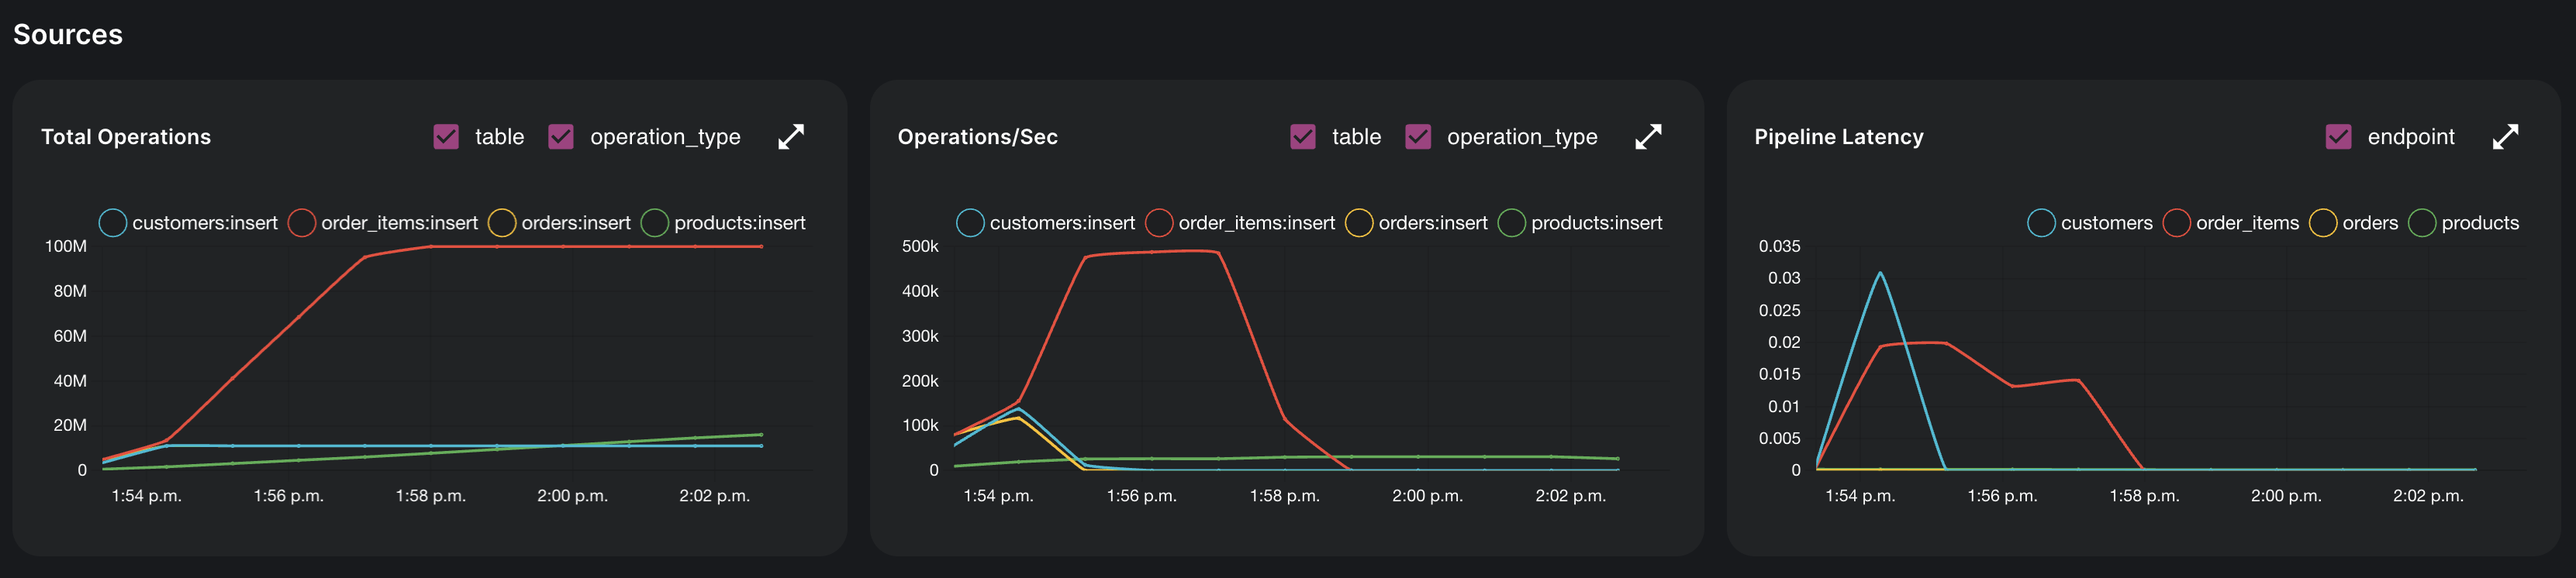
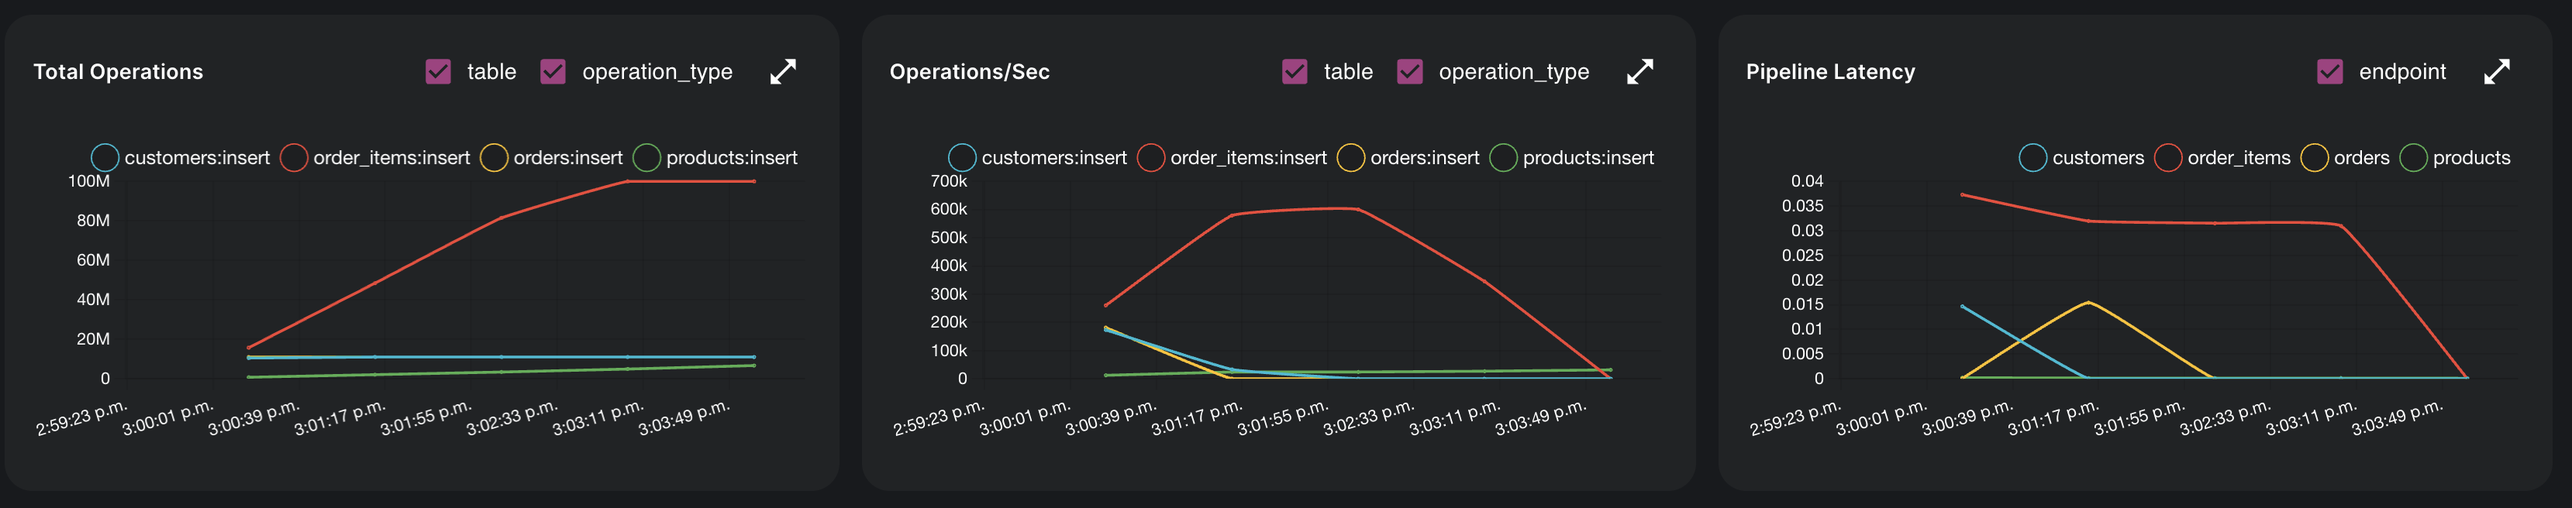
chore: fix readme

diff --git a/usecases/scaling-ecommerce/README.md b/usecases/scaling-ecommerce/README.md
@@ -1,6 +1,18 @@
-# Scaling E-Commerce
+## Scaling E-Commerce
 
-In this example we demonstrate Dozer's capability of processing large volume of data.
+In this example we demonstrate Dozer's capability of processing large volume of data. This is mainly focused on processing performance. API performance will be published separately. 
+
+## Table of Contents
+- [Scaling E-Commerce](#scaling-e-commerce)
+- [Table of Contents](#table-of-contents)
+- [Data Schema and Volume](#data-schema-and-volume)
+- [Instance Type](#instance-type)
+- [Experiment 1](#experiment-1)
+  - [Instructions](#instructions)
+  - [Findings](#findings)
+- [Experiment 2](#experiment-2)
+  - [Instructions](#instructions-1)
+  - [Findings](#findings-1)
 
 Running instructions can be [found here](./running.md)
 ## Data Schema and Volume
@@ -19,7 +31,11 @@ We generate 11 million rows for customers, 11 million rows for orders, 10 millio
 | order_items | 100_000_000 |
 | products    | 16_000_000  |
 
-Following tests have been run on AWS Graviton `m7g.8xlarge` type.
+
+## Instance Type
+
+Following tests have been run on AWS Graviton `m7g.8xlarge` type. Potentially storage optimized instances such as `im4gn.large` could be used if high amount of disk reads are to be expected in the case of external storage. 
+
 | Instance Type | vCPUs | Memory(Gb) |
 | ------------- | ----- | ---------- |
 | m7g.8xlarge   | 32    | 128        |
@@ -37,17 +53,17 @@ dozer build -c direct-config.yaml
 dozer run app -c direct-config.yaml
 ```
 
-#### Findings
+### Findings
 
 ![Experiement 1](./images/experiment_1.png)
 
- - Roughly took `7 mins` to process all the records. 
- - Note that processing of `customers`, `orders` and `order_items` finished in about `3 mins` compared to `products`.
- - Pipeline latency is very low (`~0.35`) as there is no transformation involved.
+ - Roughly took `4 mins` to process all the records. 
+ - Note that processing of `customers`, `orders` and `order_items` finished in about `2 mins` compared to `products`.
+ - Pipeline latency is very low (`~0.04`) as there is no transformation involved.
  
 | Start Time | End Time   | Elapsed  |
 | ---------- | ---------- | -------- |
-| 1:53:21 PM | 2:02:38 PM | ~ 7 mins |
+| 3:00:50 PM | 3:04:38 PM | ~ 4 mins |
 
 
 ## Experiment 2
@@ -74,13 +90,13 @@ dozer run app -c aggregate-config.yaml
 ```
 
 
-#### Findings
+### Findings
 
 ![Experiement 2](./images/experiment_2.png)
 
  - Roughly took `12 mins` to process all the records. 
  - Note that here total number of `order_items` increases in conjunction with `products`. This is to due to the dependency of the join. 
- - Pipeline latency stays under `1s` as there is no transformation involved.
+ - Pipeline latency stays under `1s` even with 4 joins and an aggregation.
  
 | Start Time | End Time   | Elapsed   |
 | ---------- | ---------- | --------- |
